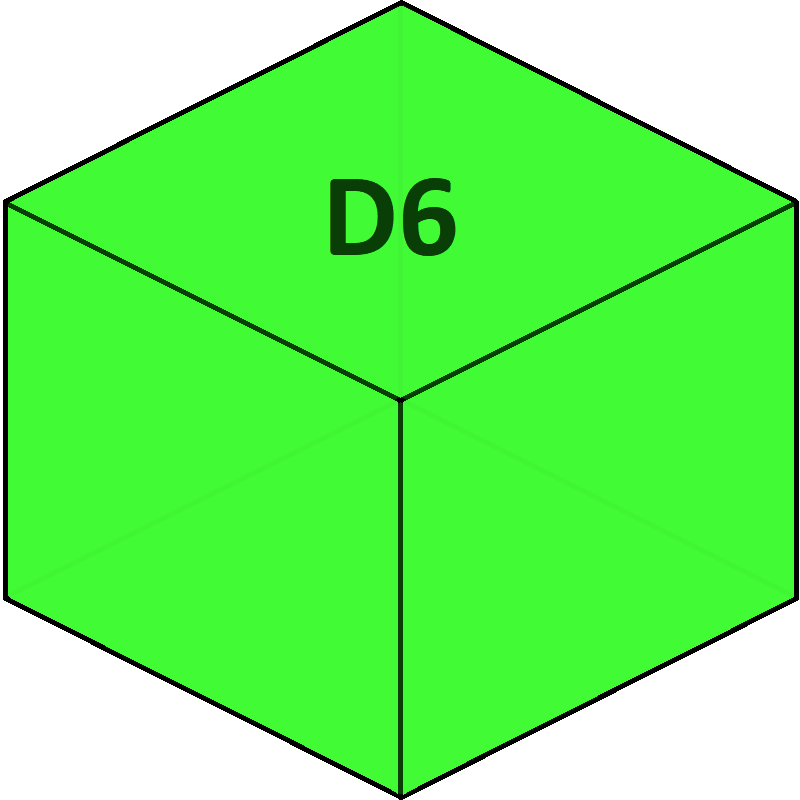
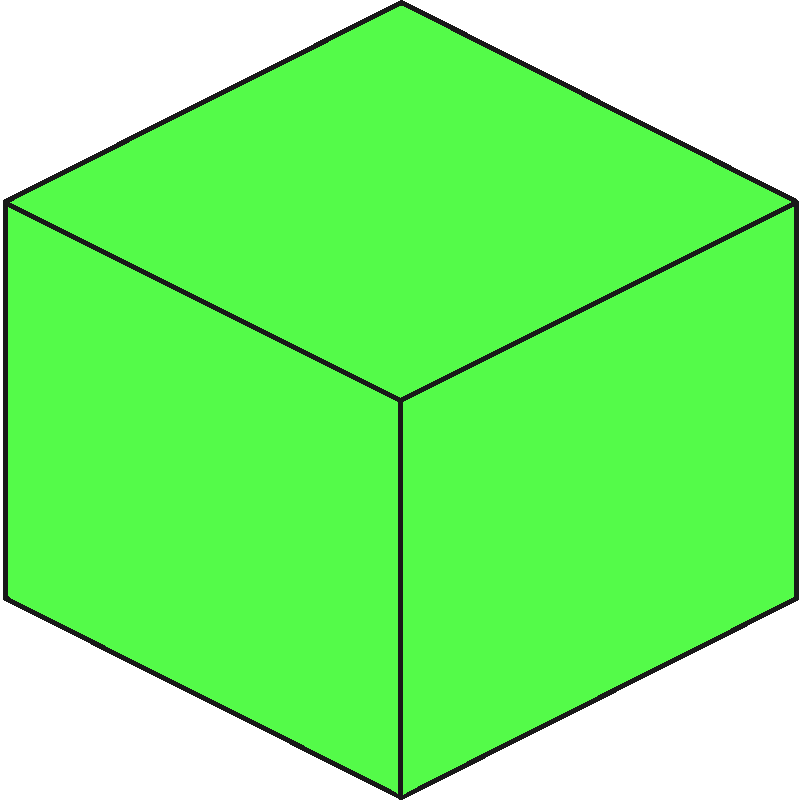
replaced d6 image and amended positioning

diff --git a/D&D_dice_roller.html b/D&D_dice_roller.html
@@ -44,10 +44,11 @@
           <p class="roll-scorenew" id="score8"></p>
         </div>
         <div class="dice-section">
-          <img src="assets/images/d6.png" alt="A bright green D6 di">
-          <h3>D6</h3>
-          <input value="Click to roll" onclick="d6Roller()" type="button" id="6roller" class="roll-button">
-          <p class="roll-score" id="score6">Score:</p>
+          <!-- <img src="assets/images/d6.png" alt="A bright green D6 di"> -->
+          <h3 class="headingnew">D6</h3>
+          <input value="Click to roll" onclick="d6Roller()" type="button" id="6roller" class="roll-buttonnew">
+          <img src="assets/images/d6.png" alt="A bright green D6 di" class="imgnew">
+          <p class="roll-scorenew" id="score6"></p>
         </div>
         <div class="dice-section">
           <img src="assets/images/d4.png" alt="A bright green D4 di">

diff --git a/D&D_dice_roller.js b/D&D_dice_roller.js
@@ -38,7 +38,8 @@
 
         function d6Roller() {
           let result6 = (Math.floor(Math.random() * 6) + 1);
-          document.getElementById('score6').innerHTML = "Score: " + result6;
+          // document.getElementById('score6').innerHTML = "Score: " + result6;
+          document.getElementById('score6').innerHTML = result6;
         }
 
         function d4Roller() {

diff --git a/assets/stylesheets/style.css b/assets/stylesheets/style.css
@@ -126,6 +126,11 @@ img {
     left: 1%;
 }
 
+#score6 {
+    top: -60px;
+    left: 1%;
+}
+
 #crit {
     color: #41FB35;
     padding: 5%;
